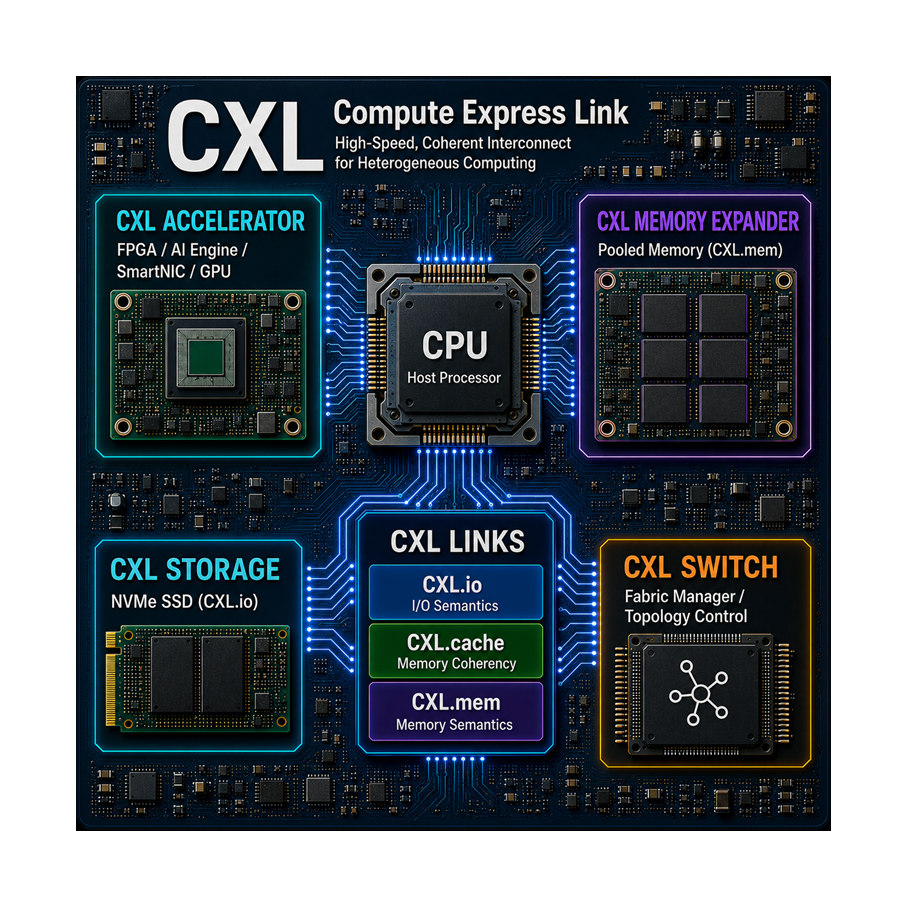
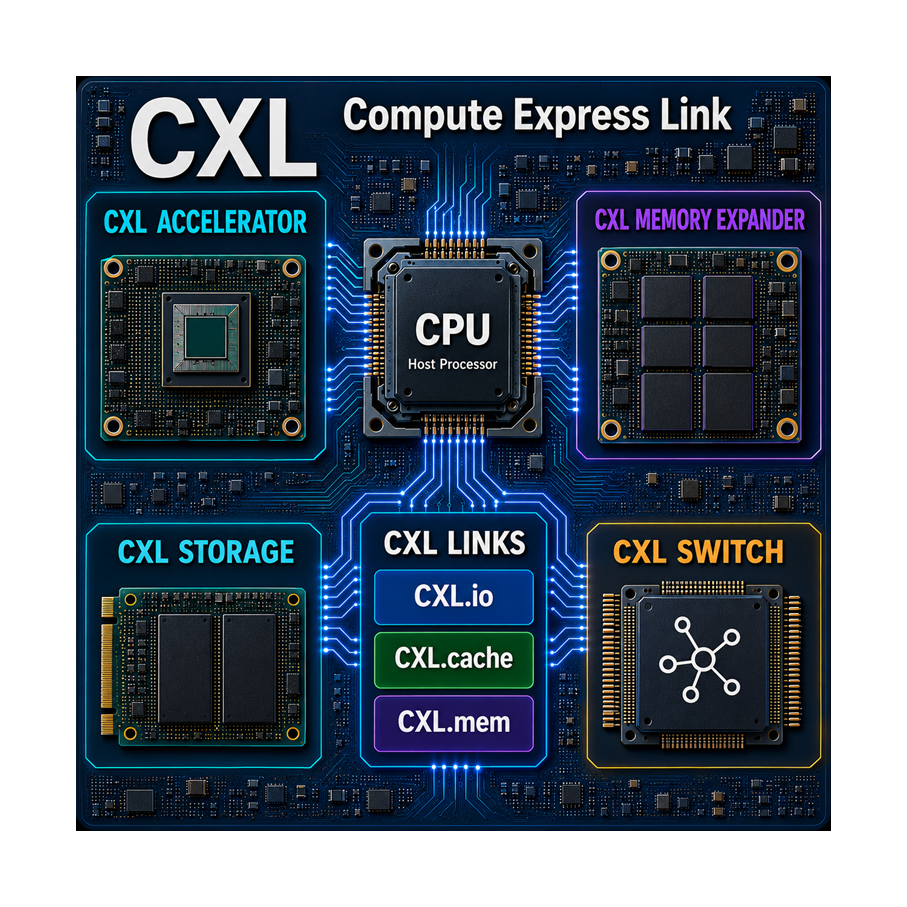
Deploying to gh-pages from @ ipoom-jeong/gaudi-lab@df7359b6b6d0860101045ab72c1fa5a1a9d891d7 🚀

diff --git a/2019/01/07/example-post-1.html b/2019/01/07/example-post-1.html
@@ -62,10 +62,10 @@
 
   <meta name="author" content="sarah-johnson">
   <meta property="og:type" content="article">
-  <meta property="og:updated_time" content="2026-05-07T14:15:53+00:00">
+  <meta property="og:updated_time" content="2026-05-07T14:27:54+00:00">
   <meta property="article:published_time" content="2019-01-07T00:00:00+00:00">
-  <meta property="article:modified_time" content="2026-05-07T14:15:53+00:00">
-  <meta name="revised" content="2026-05-07T14:15:53+00:00">
+  <meta property="article:modified_time" content="2026-05-07T14:27:54+00:00">
+  <meta name="revised" content="2026-05-07T14:27:54+00:00">
 
 
 <script type="application/ld+json">
@@ -75,7 +75,7 @@
       "@type": "BlogPosting",
       "author": { "@type": "Person", "name": "Example post 1" },
       "datePublished": "2019-01-07T00:00:00+00:00",
-      "dateModified": "2026-05-07T14:15:53+00:00",
+      "dateModified": "2026-05-07T14:27:54+00:00",
     
     "name": "Example post 1",
     "description": "General-Purpose Architectures with Unleashed Design Innovations. description",

diff --git a/2021/09/30/example-post-2.html b/2021/09/30/example-post-2.html
@@ -62,10 +62,10 @@
 
   <meta name="author" content="jane-smith">
   <meta property="og:type" content="article">
-  <meta property="og:updated_time" content="2026-05-07T14:15:53+00:00">
+  <meta property="og:updated_time" content="2026-05-07T14:27:54+00:00">
   <meta property="article:published_time" content="2021-09-30T00:00:00+00:00">
-  <meta property="article:modified_time" content="2026-05-07T14:15:53+00:00">
-  <meta name="revised" content="2026-05-07T14:15:53+00:00">
+  <meta property="article:modified_time" content="2026-05-07T14:27:54+00:00">
+  <meta name="revised" content="2026-05-07T14:27:54+00:00">
 
 
 <script type="application/ld+json">
@@ -75,7 +75,7 @@
       "@type": "BlogPosting",
       "author": { "@type": "Person", "name": "Example post 2" },
       "datePublished": "2021-09-30T00:00:00+00:00",
-      "dateModified": "2026-05-07T14:15:53+00:00",
+      "dateModified": "2026-05-07T14:27:54+00:00",
     
     "name": "Example post 2",
     "description": "General-Purpose Architectures with Unleashed Design Innovations. description",

diff --git a/2023/02/23/example-post-3.html b/2023/02/23/example-post-3.html
@@ -62,10 +62,10 @@
 
   <meta name="author" content="john-doe">
   <meta property="og:type" content="article">
-  <meta property="og:updated_time" content="2026-05-07T14:15:53+00:00">
+  <meta property="og:updated_time" content="2026-05-07T14:27:54+00:00">
   <meta property="article:published_time" content="2023-02-23T00:00:00+00:00">
-  <meta property="article:modified_time" content="2026-05-07T14:15:53+00:00">
-  <meta name="revised" content="2026-05-07T14:15:53+00:00">
+  <meta property="article:modified_time" content="2026-05-07T14:27:54+00:00">
+  <meta name="revised" content="2026-05-07T14:27:54+00:00">
 
 
 <script type="application/ld+json">
@@ -75,7 +75,7 @@
       "@type": "BlogPosting",
       "author": { "@type": "Person", "name": "Example post 3" },
       "datePublished": "2023-02-23T00:00:00+00:00",
-      "dateModified": "2026-05-07T14:15:53+00:00",
+      "dateModified": "2026-05-07T14:27:54+00:00",
     
     "name": "Example post 3",
     "description": "General-Purpose Architectures with Unleashed Design Innovations. description",

diff --git a/blogs/index.html b/blogs/index.html
@@ -818,7 +818,7 @@
   <div class="citation">
     
       <a href="https://doi.org/g9q3g9" class="citation-image" aria-label="A4: Microarchitecture-Aware LLC Management for Datacenter Servers with Emerging I/O Devices">
-        <img src="/images/publications/cpu.png" alt="A4: Microarchitecture-Aware LLC Management for Datacenter Servers with Emerging I/O Devices" loading="lazy" onerror="this.src = '/images/fallback.svg'; this.onerror = null;">
+        <img src="/images/publications/system.png" alt="A4: Microarchitecture-Aware LLC Management for Datacenter Servers with Emerging I/O Devices" loading="lazy" onerror="this.src = '/images/fallback.svg'; this.onerror = null;">
       </a>
     
 